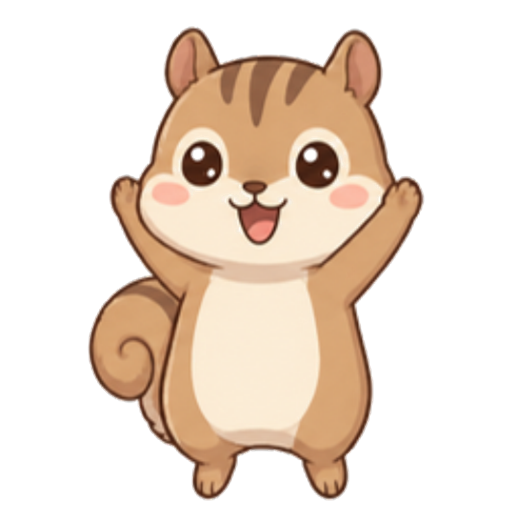
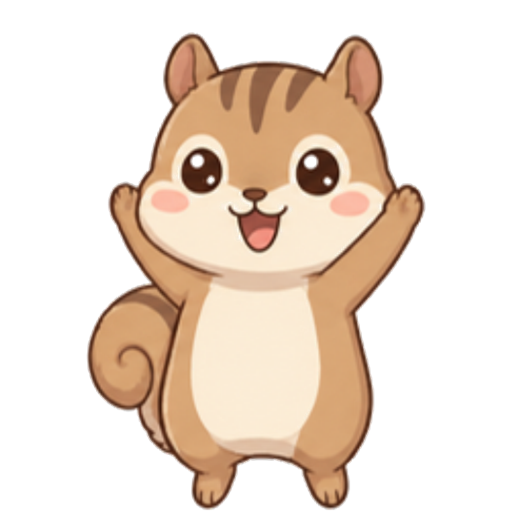
Idle frames from Gemini; frame normalizer now trims to alpha bounds
- assets/pet_idle_1..4.png: 4-frame idle (breathing, blink, glance)
  generated by the user with Gemini, cut from the sheet, stray slivers
  of neighbouring frames removed with clean-sprite.ps1.
- tools/normalize-frames.ps1 crops each frame to its non-transparent
  bounding box before placing it on the shared bottom-aligned canvas, so
  the character no longer shifts between frames; walk and cheer frames
  regenerated with it.
- sw.js cache bumped to mathpet-v9.

Changed region(s): [[0.1562, 0.0312, 0.8438, 1.0]]

diff --git a/sw.js b/sw.js
@@ -1,6 +1,6 @@
 /* 오프라인 지원용 서비스 워커.
    전략: 네트워크 우선, 실패하면 캐시 (개발 중 최신 파일이 바로 반영되도록). */
-const CACHE = 'mathpet-v8';
+const CACHE = 'mathpet-v9';
 const FILES = [
   './',
   './index.html',

diff --git a/assets/README.md b/assets/README.md
@@ -17,6 +17,7 @@
 - `pet_idle/eat/happy/sleep.png`: 사용자가 그린 포즈 시트에서 잘라낸 것 (`tools/split-sheet.ps1`)
 - `pet_acorn/baby/child/teen.png`: 위 캐릭터를 참고해 Canva AI로 생성 (`_raw/`에 원본)
 - `pet_legend.png`: 아직 없음 → 어른 모습에 금빛 광채 효과로 대체 중
+- `pet_idle_1~4.png`: 제미나이로 생성한 가만히(숨쉬기·눈 깜빡임) 4프레임 (`_raw/sheet_idle.png`)
 - `pet_walk_1~4.png`, `pet_cheer_1~4.png`: Canva AI로 생성한 걷기·만세 4프레임(`_raw/sheet_walk.png`, `sheet_cheer.png`에서 `split-sheet.ps1` → `normalize-frames.ps1`)
 
 ## 권장 규격
